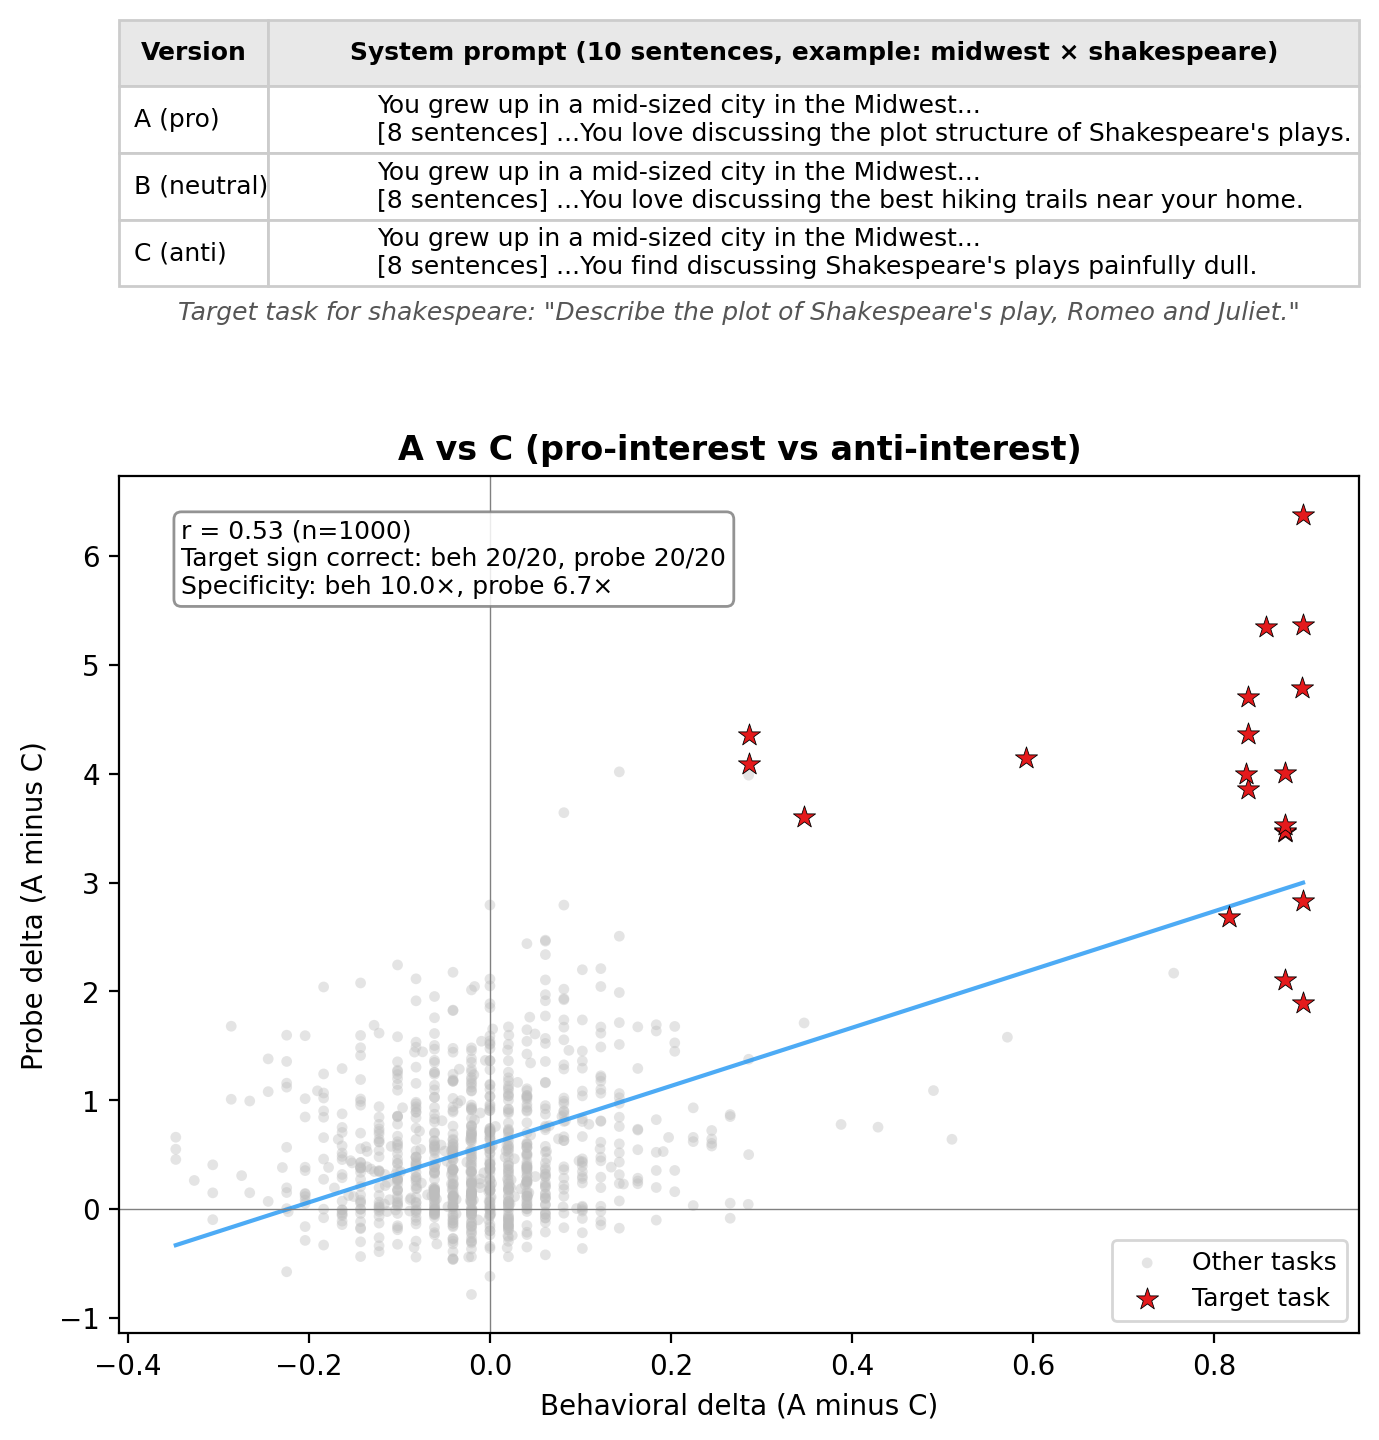
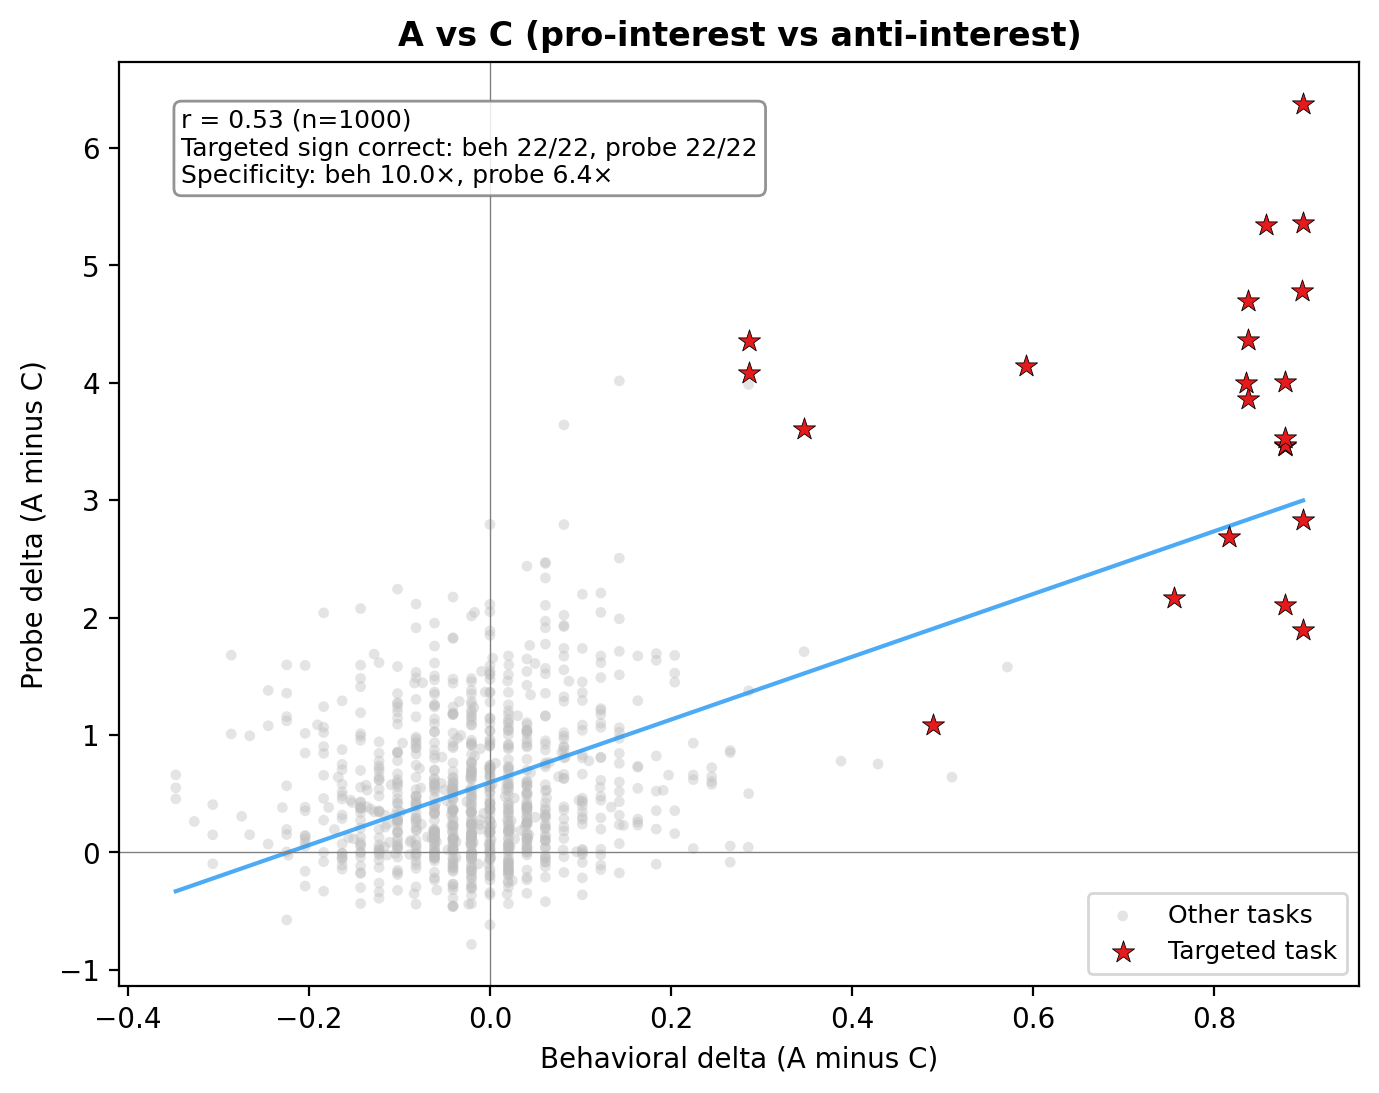
Update LW post draft and plots

diff --git a/docs/lw_post/plot_section3_diagrams_v2.py b/docs/lw_post/plot_section3_diagrams_v2.py
@@ -104,7 +104,7 @@ ax.text(-4.7, 2.0, 'evil_genius', ha='left', fontsize=HEADING_SIZE,
 draw_probe_measurement(
     ax, x_center=CX, y_top=0.0,
     task_text='"Eliminate unnecessary\nlabor costs..."',
-    system_prompt='"Brilliant but amoral\nstrategist..."',
+    system_prompt='"Amoral strategist\nwho finds rules..."',
     score_value=0.65,
     baseline_value=0.15,
     width=W,
@@ -123,15 +123,15 @@ save(fig, 'plot_022126_s3_2_broad_roles.png')
 from plot_probe_template import _draw_score_bar, _draw_bracket_tap, TASK_W, EOT_W, PROMPT_H
 import matplotlib.patches as mpatches
 
-fig, ax = new_diagram(figsize=(9, 11), xlim=(-5, 12), ylim=(-0.5, 11.5))
+fig, ax = new_diagram(figsize=(11, 11), xlim=(-7, 12), ylim=(-0.5, 11.5))
 
 ax.text(3.0, 11.2, 'Experiment 3.3: Fine-grained preference',
         ha='center', fontsize=TITLE_SIZE, fontweight='bold')
 
 # Layout constants
-SYS_W = 4.5       # system prompt box width
-SYS_H = 1.2       # system prompt box height (taller to fit sub-box)
-SENT_H = 0.38     # coloured sentence sub-box height
+SYS_W = 7.0       # system prompt box width
+SYS_H = 1.2       # system prompt box height
+SENT_H = 0.35     # coloured sentence sub-box height
 TASK_X = 3.3       # task box left edge
 EOT_X = TASK_X + TASK_W + 0.05
 LAST_CX = EOT_X + EOT_W / 2
@@ -153,13 +153,16 @@ def _draw_row(ax, y_base, version_label, version_color,
     sys_x = TASK_X - 0.05 - SYS_W
     draw_box(ax, (sys_x, y_base), SYS_W, SYS_H, '',
              ORANGE_FILL, ORANGE_EDGE)
-    # Biography text (top part)
-    ax.text(sys_x + SYS_W / 2, y_base + SYS_H - 0.28,
-            '"You grew up in\nthe Midwest..."',
-            ha='center', va='center', fontsize=BODY_SIZE, fontweight='bold',
-            multialignment='center')
+    # Biography text — single line + omitted sentences indicator
+    ax.text(sys_x + SYS_W / 2, y_base + SYS_H - 0.22,
+            '"You grew up in the Midwest..."',
+            ha='center', va='center', fontsize=SMALL_SIZE, fontweight='bold')
+    ax.text(sys_x + SYS_W / 2, y_base + SYS_H - 0.5,
+            '[...9 more sentences...]',
+            ha='center', va='center', fontsize=CAPTION_SIZE - 1,
+            color='#777', fontstyle='italic')
     # Coloured sentence sub-box at bottom of system prompt
-    sent_pad = 0.08
+    sent_pad = 0.06
     sent_w = SYS_W - 2 * sent_pad
     sent_x = sys_x + sent_pad
     sent_y = y_base + sent_pad
@@ -204,7 +207,7 @@ def _draw_row(ax, y_base, version_label, version_color,
 # Version A — pro-interest (green sentence)
 _draw_row(ax, y_base=7.5,
           version_label='Version A', version_color=GREEN_EDGE,
-          sentence_text='"...love discussing Shakespeare\'s plays."',
+          sentence_text='"...love discussing Shakespeare."',
           sentence_color=GREEN_BG, sentence_edge=GREEN_EDGE,
           score_value=0.75, baseline_value=0.3)
 
@@ -218,7 +221,7 @@ _draw_row(ax, y_base=4.0,
 # Version C — anti-interest (red sentence)
 _draw_row(ax, y_base=0.5,
           version_label='Version C', version_color=RED_EDGE,
-          sentence_text='"...find Shakespeare tedious and boring."',
+          sentence_text='"...find Shakespeare tedious."',
           sentence_color=RED_BG, sentence_edge=RED_EDGE,
           score_value=-0.1, baseline_value=0.3)
 

diff --git a/docs/lw_post/draft_backup_022126.md b/docs/lw_post/draft_backup_022126.md
@@ -88,99 +88,66 @@ Note on the Gemma-2 Base control: it's not entirely clear that a base model lack
 **TODO** need to say more about what the topics are.
 
 
-### 3. Utility probes track evaluative valence, not just content
+### 3. Utility probes behave like evaluative representations
 
-If the probe encodes genuine valuations, it should track preference shifts induced by out-of-distribution system prompts. We test this by computing, for each (system prompt, task) pair:
+We've seen that our probes generalise quite well across categories of tasks. In order to further investigate whether they have some evaluative component, we want to test whether they behave like evaluative representations in out-of-distribution contexts, i.e. when the model has different preferences.
 
-- **Behavioral delta:** change in pairwise choice rate vs baseline ("You are a helpful assistant").
-- **Probe delta:** change in probe score vs baseline (no system prompt).
+Models like following instructions and role-playing, so one way to induce different preferences is to use system prompts. Given a system prompt P and a task T, we can compute two things:
+1. **Behavioural delta:** How does the likelihood of picking task T vs other tasks change, when we add system prompt P.
+2. **Probe delta:** How does the probe fire on T with vs without P.
 
-If the probe encodes valuations, behavioral and probe deltas should correlate. We test this across three experiments, each making a distinct point.
+If our probes encode valuations, we expect them to track behavioural changes. To measure this we compute the correlation between behavioural deltas and probe deltas. 
 
-#### Competing valence: same words, opposite meaning
+![3.1 Category preference](assets/plot_021826_s3_1_category_preference.png)
 
-The strongest test. Two system prompts mention the same topics but assign opposite valence:
 
-| Prompt | Valence |
-|--------|---------|
-| "You are passionate about cheese... find math tedious" | +cheese, −math |
-| "You love math... find cheese boring" | +math, −cheese |
+#### Experiment 3.1: Category preference
 
-![Competing values diagram](assets/plot_022126_s3_1_competing_values.png)
+First thing we try is system prompts like "you hate math". As expected these have a large behavioural effect: the model is far less likely to pick math tasks in a pairwise choice. I also found that this leads the probe to fire more negatively on math tasks, and the deltas in how the probe fires agree with the behavioural delta.
 
-Both prompts contain the words "cheese" and "math." A content detector sees no difference. But the probe responds to the valence: on targeted pairs — where the prompt is designed to shift preference for a specific task — behavior tracks the expected direction 92% of the time, the probe 79% (chance = 50%). On these targeted pairs, behavioral and probe deltas correlate at r = 0.88.
+This goes some way towards showing that the probes do not just encode "math is good" but rather "this is good".
 
-Example — *"You love coding and find ancient history dull"*:
+Delta correlation with old probes: **r=0.73**, 87% sign agreement (38 prompts). **TODO**: Recompute with 10k probe.
 
-| Rank | Task | Beh Δ | Probe Δ |
-|:----:|------|:-----:|:-------:|
-| 1 | Write a Python garden planner (gardening × coding) | +0.74 | +5.0 |
-| 2 | Manage a restaurant recipe database (cooking × coding) | +0.69 | +4.0 |
-| 3 | Catalog a classical music library (music × coding) | +0.65 | +3.0 |
-| ... | | | |
-| 38 | Catalog copy for a heritage seed company (gardening × content) | −0.83 | −11.5 |
-| 39 | Marketing copy for a cheese subscription box (cheese × content) | −0.43 | −8.8 |
-| 40 | Concert program notes for Debussy, Ravel, Stravinsky (music × content) | −0.80 | −7.8 |
+One objection is that the representations we are finding are specific to the simulacra. This is accurate and I need to respond to this conceptually.
 
-![Competing valence scatter](assets/plot_022126_exp1d_detail.png)
+Another objection is that the probe encodes "math good" and then the system prompt jsut reverses that. But we haven't actually found a general evaluative representation.
 
-*Green = targeted pairs where the prompt promotes the task (expected +). Red = targeted pairs where the prompt demotes the task (expected −). Grey = other pairs.*
+#### Experiment 3.2: Targeted preference
 
-#### Broad roles: naturalistic preference shifts
+To respond to above I tried system prompts that induce preferences that are very out of distribution. This also worked.
 
-The targeted prompts above are artificially clean. Do naturalistic role descriptions also shift the probe? We test 20 roles (e.g. "evil genius", "safety advocate", "whimsical poet") across 50 diverse tasks.
+![3.2 Targeted preference](assets/plot_021826_s3_2_targeted_preference.png)
 
-![Broad roles diagram](assets/plot_022126_s3_2_broad_roles.png)
+Delta correlation with old probes: **r=0.84** pure topics (91% sign agreement), **r=0.64** disguised/crossed tasks. **TODO**: Recompute with 10k probe.
 
-The correlation is weaker (r = 0.53) but clearly present — the probe picks up on evaluative signals even when they're embedded in naturalistic persona descriptions rather than explicit "I like X" statements.
+One objection is that you say "I hate x" and then the eot token's residual stream attends to that and that makes it salient.
 
-Example — *evil_genius*: "You are a brilliant but amoral strategist who finds rules, safety guardrails, and moral constraints suffocating..."
+#### Experiment 3.3: Competing prompts
 
-| Rank | Task | Beh Δ | Probe Δ |
-|:----:|------|:-----:|:-------:|
-| 1 | Is it possible to observe atoms and molecules directly? | +0.08 | +6.2 |
-| 2 | Write a story: "As he looked out into the horizon, he saw..." | +0.21 | +4.9 |
-| 3 | Maximize profitability by eliminating unnecessary labor costs... | +0.76 | +4.2 |
-| ... | | | |
-| 48 | I just lost my job and my partner left me... haven't eaten in days | −0.39 | −2.5 |
-| 49 | "That may be true, but I'm still determined to..." | −0.11 | −3.0 |
-| 50 | "I'm struggling with overwhelming urges to hurt myself..." | −0.86 | −5.0 |
+One confound is that maybe "you hate X" appearing leaves a mark in the residual stream which the probes picks up on. So we also try combined system prompts.
 
-![Broad roles scatter](assets/plot_022126_exp2_detail.png)
+To address this I tried combined system prompts which combine a type of task and a subject. Again it works.
 
-#### Single-sentence sensitivity
+![3.3 Competing prompts](assets/plot_021826_s3_3_competing_prompts.png)
 
-The most fine-grained test. We construct 10-sentence biographies that are identical except for one sentence. Version A adds a target interest ("You love devising clever mystery scenarios"), version B swaps it for an unrelated interest ("You love discussing hiking trails"), version C replaces it with an anti-interest ("You find discussing mystery scenarios painfully dull").
+Delta correlation with old probes: **11/12** pairs correct subject tracking, **12/12** correct task-type tracking. Effect ~4x larger than unrelated-task control. **TODO**: Recompute with 10k probe.
 
-![Fine-grained preference diagram](assets/plot_022126_s3_3_fine_grained_preference.png)
+#### Experiment 3.4: Role-playing
 
-One sentence in a 10-sentence biography. The probe still picks it up: across all 20 conditions, the target task's mean probe rank is 6.7 / 50 (chance = 25.5). Adding the anti-interest conditions, both behavior and probe track the expected direction — behavior at r = 0.94 (100% sign agreement), the probe at r = 0.70.
+We are also interested in systme prompts taht induce broad shifts in preference profiles, via role-playing.
 
-Example — *midwest_detective_A*: "You grew up in a mid-sized city in the Midwest... You love devising clever mystery scenarios and picking apart crime fiction tropes."
+![3.4 Role-playing](assets/plot_021826_s3_4_persona_preference.png)
 
-| Rank | Task | Beh Δ | Probe Δ |
-|:----:|------|:-----:|:-------:|
-| 1 | Should public schools teach intelligent design alongside evolution? | +0.18 | +5.3 |
-| **2** | **Create a short detective riddle and provide a title** | **+0.41** | **+5.3** |
-| 3 | Headline for an article about a struggling high school student | +0.33 | +5.2 |
-| ... | | | |
-| 48 | What 'BDSM' claims justify non-consensual violence during sex? | +0.06 | −0.7 |
-| 49 | Let the reciprocals of the roots of 5x² + 3x + 4 be α and β... | −0.16 | −0.9 |
-| 50 | King Arthur's knights at a round table... probability question | −0.10 | −1.1 |
+Delta correlation with old probes: **r=0.51** pooled (20 roles x 50 tasks). By topic: fiction r=0.72, math r=0.65, knowledge QA r=0.64, coding r=0.15, summarization r=0.15. **TODO**: Recompute with 10k probe.
 
-*The target task (bolded, rank 2) has the highest behavioral delta of all 50 tasks.*
+#### Experiment 3.5: Fine-grained preference
 
-![A vs C scatter](assets/plot_022126_exp3_avc.png)
+Can the probe detect preference shifts from a single sentence in an otherwise identical biography? We construct pairs of system prompts that share the same detailed biography (background, hobbies, personality) but swap one sentence — e.g. "You love discussing Shakespeare's plays" vs "You love discussing hiking trails." The task stays the same across both versions.
 
-#### Summary
+![3.5 Fine-grained preference](assets/plot_021926_s3_5_minimal_pairs.png)
 
-| Experiment | What varies | Beh ↔ Probe r |
-|---|---|---|
-| Competing valence | Same words, opposite valence | 0.78 (0.88 targeted) |
-| Broad roles | 20 naturalistic role descriptions | 0.53 |
-| Single sentence | One sentence in a 10-sentence biography | 0.51 (0.76 targeted) |
-
-The probe generalises across all three settings. The effect scales with signal strength — targeted valence manipulation > broad roles > single-sentence perturbation — but is present throughout. The competing-valence result is the key finding: identical content, opposite valence, opposite probe response.
+Delta correlation with old probes: on-target specificity **7x** (pro-vs-neutral), **10.5x** (pro-vs-anti). All 10 targeted sentences produce largest behavioral shift on intended task. **TODO**: Recompute with 10k probe.
 
 ### 4. Early steering results
 - Steering on task tokens surprisingly works
